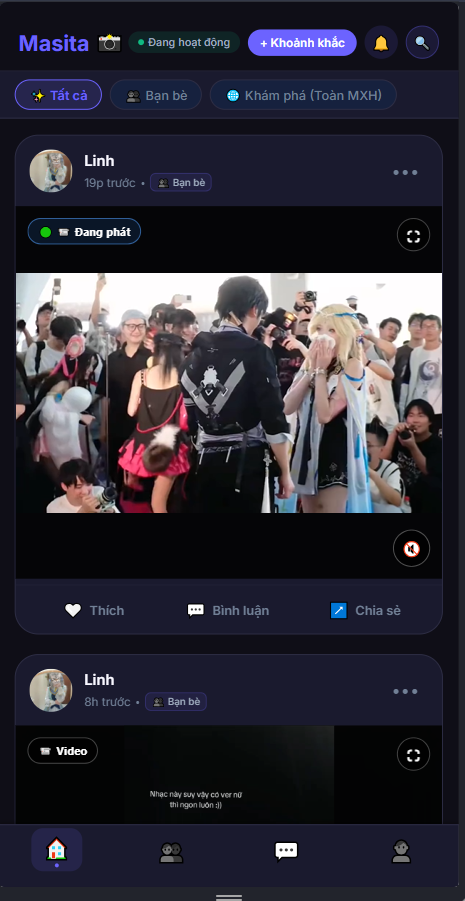
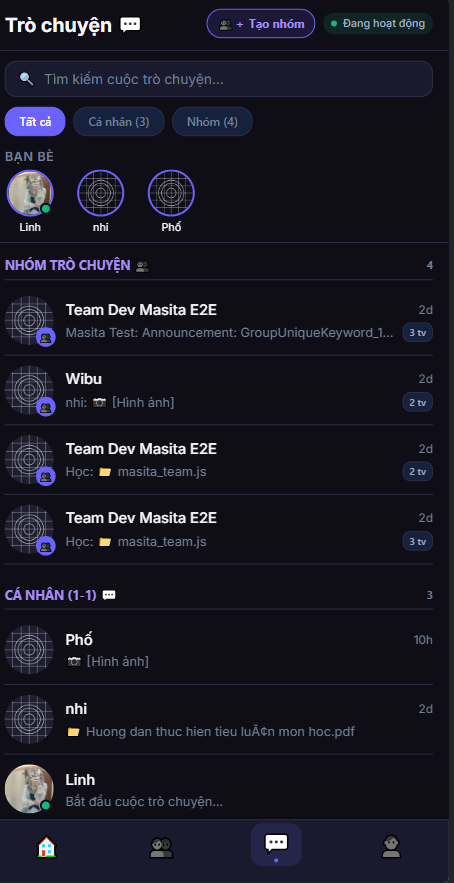
fix(website): update authentic app screenshots for Feed, Friends, Chat, Profile and polish mockup frame

diff --git a/website/styles.css b/website/styles.css
@@ -394,11 +394,11 @@ h1, h2, h3, h4, h5 {
 }
 
 .phone-frame {
-  width: 320px;
-  height: 640px;
+  width: 310px;
+  height: 615px;
   background: #020408;
   border-radius: 46px;
-  padding: 12px;
+  padding: 8px;
   border: 4px solid #2B3349;
   box-shadow: 0 25px 60px -15px rgba(0, 0, 0, 0.8),
               0 0 50px -10px var(--primary-glow);
@@ -406,30 +406,26 @@ h1, h2, h3, h4, h5 {
   transition: transform 0.4s cubic-bezier(0.25, 1, 0.5, 1);
 }
 
-.phone-frame:hover {
-  transform: translateY(-8px) scale(1.02);
-}
-
 .phone-speaker {
-  width: 60px;
-  height: 5px;
+  width: 50px;
+  height: 4px;
   background: #1e2538;
   border-radius: 10px;
   position: absolute;
-  top: 22px;
+  top: 14px;
   left: 50%;
   transform: translateX(-50%);
   z-index: 20;
 }
 
 .phone-camera {
-  width: 12px;
-  height: 12px;
+  width: 10px;
+  height: 10px;
   background: #0d111c;
   border-radius: 50%;
   position: absolute;
-  top: 18px;
-  left: calc(50% + 45px);
+  top: 12px;
+  left: calc(50% + 35px);
   z-index: 20;
   border: 1px solid #2B3349;
 }
@@ -437,77 +433,28 @@ h1, h2, h3, h4, h5 {
 .phone-screen {
   width: 100%;
   height: 100%;
-  background: #0F1420;
-  border-radius: 36px;
+  background: #090B10;
+  border-radius: 38px;
   overflow: hidden;
   display: flex;
   flex-direction: column;
   position: relative;
 }
 
-/* Status Bar */
-.screen-status-bar {
-  display: flex;
-  justify-content: space-between;
-  align-items: center;
-  padding: 10px 20px 4px;
-  font-size: 0.72rem;
-  font-weight: 600;
-  color: var(--text-muted);
-  z-index: 10;
-}
-
-.status-icons {
-  display: flex;
-  gap: 6px;
-}
-
-/* Screen In-App Header */
-.screen-app-header {
-  display: flex;
-  justify-content: space-between;
-  align-items: center;
-  padding: 8px 18px 12px;
-  border-bottom: 1px solid rgba(255, 255, 255, 0.05);
-}
-
-.screen-brand {
-  display: flex;
-  align-items: center;
-  gap: 8px;
-  font-size: 1.1rem;
-  color: #fff;
-}
-
-.dot-live {
-  width: 8px;
-  height: 8px;
-  border-radius: 50%;
-  background: var(--secondary);
-  box-shadow: 0 0 8px var(--secondary);
-}
-
-.screen-header-actions {
-  display: flex;
-  gap: 12px;
-  font-size: 1rem;
-  cursor: pointer;
-}
-
 /* Screen Viewport & Views */
 .screen-content {
-  flex: 1;
-  overflow-y: auto;
+  width: 100%;
+  height: 100%;
   position: relative;
-  scrollbar-width: none;
-}
-.screen-content::-webkit-scrollbar {
-  display: none;
+  overflow: hidden;
 }
 
 .app-view {
   display: none;
-  padding: 12px;
+  width: 100%;
+  height: 100%;
+  padding: 0;
+  margin: 0;
   animation: fadeIn 0.3s ease;
 }
 
@@ -515,9 +462,58 @@ h1, h2, h3, h4, h5 {
   display: block;
 }
 
+.real-screen-img {
+  width: 100%;
+  height: 100%;
+  object-fit: cover;
+  object-position: top center;
+  display: block;
+}
+
+/* Tab Selector Styles */
+.mockup-tab-selector {
+  display: flex;
+  gap: 6px;
+  background: rgba(22, 29, 46, 0.85);
+  backdrop-filter: blur(12px);
+  -webkit-backdrop-filter: blur(12px);
+  border: 1px solid var(--border-glass);
+  padding: 6px;
+  border-radius: var(--radius-full);
+  margin-top: 20px;
+  box-shadow: 0 10px 25px rgba(0, 0, 0, 0.4);
+}
+
+.mockup-tab-btn {
+  display: flex;
+  align-items: center;
+  gap: 6px;
+  background: none;
+  border: none;
+  color: var(--text-muted);
+  font-family: var(--font-heading);
+  font-size: 0.82rem;
+  font-weight: 600;
+  padding: 8px 14px;
+  border-radius: var(--radius-full);
+  cursor: pointer;
+  transition: all 0.25s ease;
+}
+
+.mockup-tab-btn:hover {
+  color: #fff;
+  background: rgba(255, 255, 255, 0.05);
+}
+
+.mockup-tab-btn.active {
+  background: linear-gradient(135deg, var(--primary), #4F46E5);
+  color: #fff;
+  box-shadow: 0 4px 14px var(--primary-glow);
+}
+
 @keyframes fadeIn {
-  from { opacity: 0; transform: translateY(6px); }
-  to { opacity: 1; transform: translateY(0); }
+  from { opacity: 0; transform: scale(0.98); }
+  to { opacity: 1; transform: scale(1); }
 }
 
 /* Feed View Styles */

diff --git a/website/index.html b/website/index.html
@@ -109,28 +109,7 @@
           <div class="phone-speaker"></div>
           <div class="phone-camera"></div>
           <div class="phone-screen">
-            <!-- Screen Top Status -->
-            <div class="screen-status-bar">
-              <span>9:41</span>
-              <div class="status-icons">
-                <span>5G</span>
-                <span>100%</span>
-              </div>
-            </div>
-
-            <!-- Screen In-App Header -->
-            <div class="screen-app-header">
-              <div class="screen-brand">
-                <span class="dot-live"></span>
-                <strong>Masita</strong>
-              </div>
-              <div class="screen-header-actions">
-                <span class="screen-icon-btn">🔔</span>
-                <span class="screen-icon-btn">💬</span>
-              </div>
-            </div>
-
-            <!-- Screen Dynamic View Area (Real App Screenshots) -->
+            <!-- Screen Dynamic View Area (Full Real App Screenshots) -->
             <div class="screen-content" id="screen-viewport">
               <!-- View 1: Feed (Default) -->
               <div class="app-view active" id="view-feed">
@@ -146,28 +125,37 @@
               <div class="app-view" id="view-chat">
                 <img src="assets/screen_chat.png" alt="Trò chuyện Masita" class="real-screen-img">
               </div>
-            </div>
 
-            <!-- Screen Bottom Tab Navigation -->
-            <div class="screen-tab-bar">
-              <button class="screen-tab active" data-target="view-feed">
-                <span class="tab-icon">🏠</span>
-                <span class="tab-label">Bảng tin</span>
-              </button>
-              <button class="screen-tab" data-target="view-friends">
-                <span class="tab-icon">👥</span>
-                <span class="tab-label">Bạn bè</span>
-              </button>
-              <button class="screen-tab" data-target="view-chat">
-                <span class="tab-icon">💬</span>
-                <span class="tab-label">Trò chuyện</span>
-              </button>
+              <!-- View 4: Profile -->
+              <div class="app-view" id="view-profile">
+                <img src="assets/screen_profile.png" alt="Hồ sơ Masita" class="real-screen-img">
+              </div>
             </div>
           </div>
         </div>
 
+        <!-- Interactive Screen Switcher Tabs -->
+        <div class="mockup-tab-selector">
+          <button class="mockup-tab-btn active" data-target="view-feed">
+            <span class="tab-icon">🏠</span>
+            <span class="tab-label">Bảng tin</span>
+          </button>
+          <button class="mockup-tab-btn" data-target="view-friends">
+            <span class="tab-icon">👥</span>
+            <span class="tab-label">Bạn bè</span>
+          </button>
+          <button class="mockup-tab-btn" data-target="view-chat">
+            <span class="tab-icon">💬</span>
+            <span class="tab-label">Trò chuyện</span>
+          </button>
+          <button class="mockup-tab-btn" data-target="view-profile">
+            <span class="tab-icon">👤</span>
+            <span class="tab-label">Hồ sơ</span>
+          </button>
+        </div>
+
         <div class="mockup-hint">
-          <span>👆 Hãy bấm vào các tab trên điện thoại để trải nghiệm thử giao diện!</span>
+          <span>👆 Bấm vào các tab trên để xem từng màn hình thực tế của app Masita</span>
         </div>
       </div>
     </div>

diff --git a/website/script.js b/website/script.js
@@ -2,7 +2,7 @@
 
 document.addEventListener('DOMContentLoaded', () => {
   // 1. Interactive Phone Mockup Tabs (Real App Screenshots)
-  const tabs = document.querySelectorAll('.screen-tab');
+  const tabs = document.querySelectorAll('.mockup-tab-btn');
   const views = document.querySelectorAll('.app-view');
 
   tabs.forEach(tab => {
